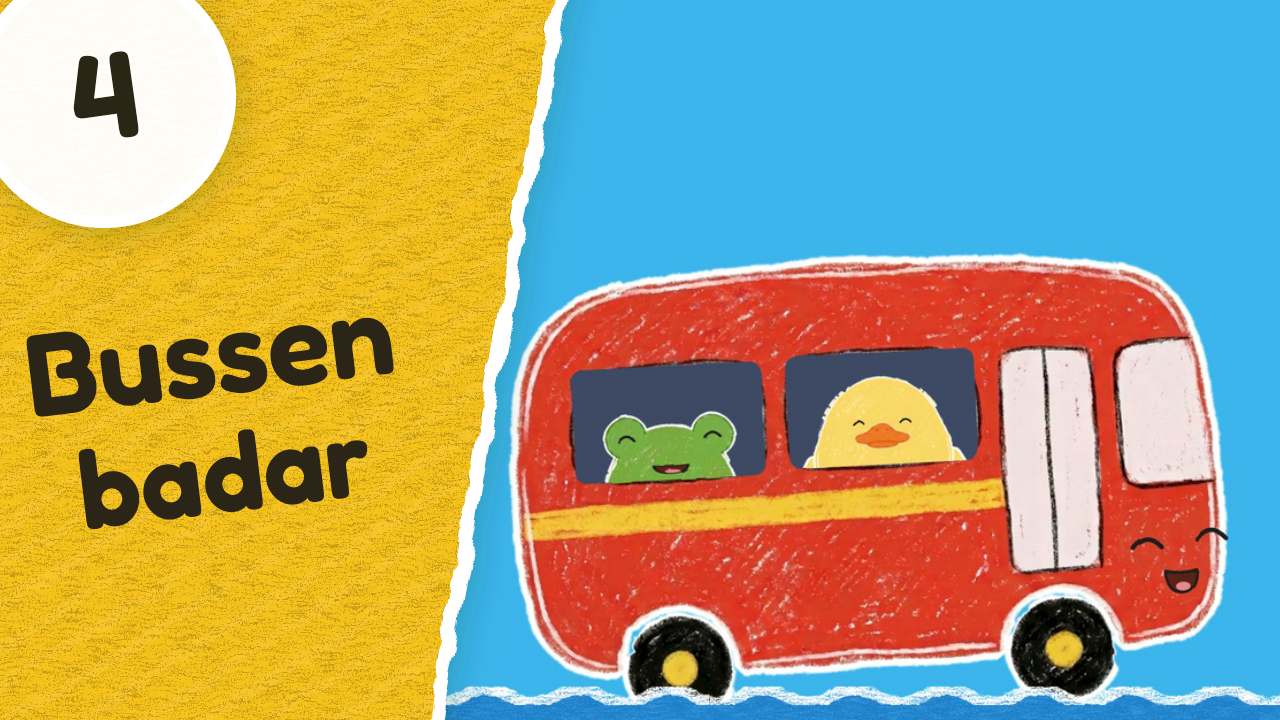
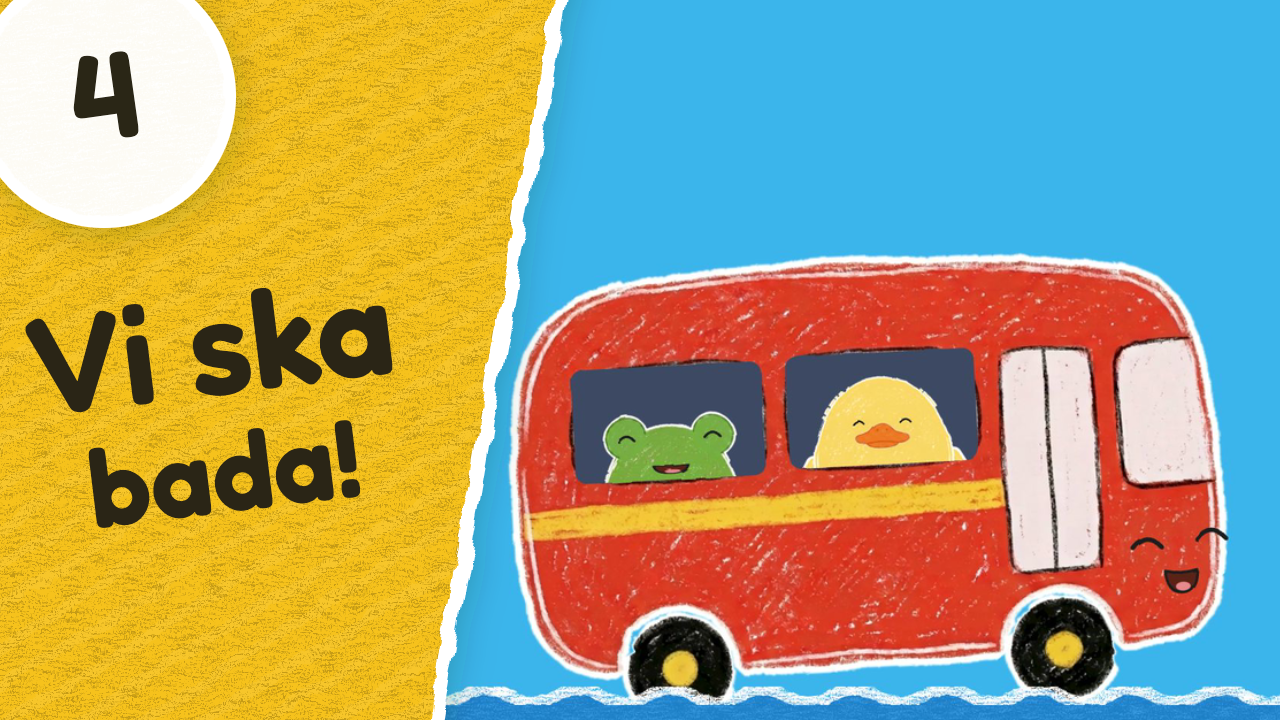
Miniatyrer: A/B-test för hand och 004:s titel som videon
B-bilder: `b: { … }` på en rad i verktyg/miniatyr.html ger en B direkt efter A (en ändring i taget),
renderas som miniatyr-strimma-b*.png. Skillen beskriver testet för hand (Test & Compare fungerar inte
för barnvideor): fyra veckor, svenska A B A B och engelska B A B A, CTR och visningstid i loggen
produktion/youtube/miniatyr-test.md. Första testet: 014-b med ansiktet närmare.
004:s svenska miniatyr säger "Vi ska bada!" som den publicerade videon.

Changed region(s): [[0.0, 0.3972, 0.3125, 0.5806], [0.0625, 0.5806, 0.3125, 0.7333]]

diff --git a/verktyg/miniatyr.html b/verktyg/miniatyr.html
@@ -42,6 +42,7 @@
 // ut: mappen bilderna sparas i (standard: hjältebildens mapp). hjalte: [skala, x, y] = hjältens nederkant mitt i bilden; den hamnar vid (870, 705) och bilden zoomas in. Utan = bilden som den är.
 const MINIATYRER = [
   { id:'014', bild:'avsnitt/014-grona-traktorn/thumbnail/miniatyr-utan-text.png', farg:'#3E9B35', cirkel:['14'], tid:'3:37',
+    b:{ hjalte:[1.3, 800, 531], test:'ansiktet närmare' },
     sv:{ titel:['Gröna','sången'], yt:'Gröna sången 🚜💚 | Färgsång för barn – leoparden letar grönt | Lilla Kritan' },
     en:{ titel:['Green','Song'], yt:'The Green Song 🚜💚 | Color Song for Kids – the leopard looks for green | Tiny Crayon TV' } },
   { id:'007', bild:'avsnitt/007-bruna-ladbilen/thumbnail/miniatyr-utan-text.png', farg:'#8B4E24', cirkel:['7'], tid:'3:12', hjalte:[1.12, 945, 650],
@@ -54,12 +55,19 @@ const MINIATYRER = [
     sv:{ titel:['Rosa','sången'], yt:'Rosa sången 🚗💗 | Barnsång om färger – musen letar rosa | lilla kritan' },
     en:{ titel:['Pink','Song'], yt:'The Pink Song 🚗💗 | Color Song for Kids – the mouse looks for pink | Tiny Crayon TV' } },
   { id:'004', bild:'avsnitt/004-bussen-badar/thumbnail/miniatyr-utan-text.png', farg:'#F6C21C', cirkel:['4'], tid:'2:41', hjalte:[1.15, 900, 640],
-    sv:{ titel:['Bussen','badar'], yt:'Bussen badar 🚌🌊 | Barnsång – nu ska vi bada! | lilla kritan' },
+    sv:{ titel:['Vi ska','bada!'], yt:'Vi ska bada! 🚌💦 | Barnsång om bussen, grodan och ankan | lilla kritan' },
     en:{ titel:["Let's Go",'Swimming!'], yt:"Let's Go Swimming! 🚌🌊 | Kids Song | Tiny Crayon TV" } },
   { id:'mix-2', ut:'produktion/youtube/mix/mix-2/thumbnail', bild:'avsnitt/005-rosa-bilen/thumbnail/miniatyr-utan-text.png', farg:'#8E44C9', cirkel:['25','min'], tid:'25:14', hjalte:[1.15, 915, 660],
     sv:{ titel:['Alla','sångerna'], yt:'Alla färgsångerna 🌈 | 25 minuter barnsånger | lilla kritan' },
     en:{ titel:['All the','Songs'], yt:'All the Color Songs 🌈 | 25 minutes of kids songs | Tiny Crayon TV' } },
 ];
+// A/B: `b: { … }` på en rad ger en B-bild direkt efter A, med bara det som står i b ändrat (en sak i taget) och `test:` = vad som prövas.
+// Den renderas som miniatyr-strimma-b.png och -b-en.png. Testet görs för hand, se skill `miniatyrer` (YouTubes Test & Compare
+// fungerar inte för barnvideor).
+for (let i = MINIATYRER.length - 1; i >= 0; i--) {
+  const a = MINIATYRER[i];
+  if (a.b) MINIATYRER.splice(i + 1, 0, { ...a, ...a.b, id: `${a.id}-b`, variant: 'b', b: undefined });
+}
 const KANAL = { sv:'lilla kritan', en:'tiny crayon tv' }, KANAL_UNDER = { sv:'Lilla Kritan · 1,2 tn visningar', en:'Tiny Crayon TV · 1.2K views' };
 const q = new URLSearchParams(location.search);
 let lang = q.has('en') ? 'en' : 'sv', medKanal = q.has('kanal');
@@ -81,7 +89,7 @@ async function rita() {
     document.body.classList.add('en-bild');
     ut.innerHTML = svgTom(MINIATYRER.find(m => m.id === q.get('id')));
   } else {
-    ut.innerHTML = `<div class="stora">${MINIATYRER.map(m => `<div><h3>${m.id}</h3>${svgTom(m)}</div>`).join('')}</div>
+    ut.innerHTML = `<div class="stora">${MINIATYRER.map(m => `<div><h3>${m.id}${m.test ? ` · B: ${m.test}` : ''}</h3>${svgTom(m)}</div>`).join('')}</div>
       <p class="lbl">Mobil, nästa video (168 px)</p><div class="rad">${MINIATYRER.map(m => kort(m, 168)).join('')}</div>
       <p class="lbl">Startsida, dator (320 px)</p><div class="rad">${MINIATYRER.slice(0, 3).map(m => kort(m, 320)).join('')}</div>`;
     document.getElementById('bar').innerHTML = [

diff --git a/.claude/skills/miniatyrer/SKILL.md b/.claude/skills/miniatyrer/SKILL.md
@@ -1,6 +1,6 @@
 ---
 name: miniatyrer
-description: YouTube-miniatyrer för Lilla Kritan och Tiny Crayon TV i husets stil, "färgstrimman" – en sned kritstrimma i avsnittets färg till vänster med titeln i Fredoka, en stor gul cirkel med avsnittsnumret (eller "25 min" i mixar) som klipps av hörnet, och en nära hjältebild med ett glatt ansikte till höger. Svensk och engelsk bild ur samma data, granskning i mobilstorlek med tidsbrickan, render till PNG under 2 MB. Use when the user says "miniatyr", "thumbnail", "miniatyrbild", "ny thumbnail", "thumbnail för avsnitt", "färgstrimman", or an episode or mix is ready for YouTube and has no thumbnail.
+description: YouTube-miniatyrer för Lilla Kritan och Tiny Crayon TV i husets stil, "färgstrimman" – en sned kritstrimma i avsnittets färg till vänster med titeln i Fredoka, en stor gul cirkel med avsnittsnumret (eller "25 min" i mixar) som klipps av hörnet, och en nära hjältebild med ett glatt ansikte till höger. Svensk och engelsk bild ur samma data, B-bilder för A/B-test för hand (Test & Compare fungerar inte för barnvideor), granskning i mobilstorlek med tidsbrickan, render till PNG under 2 MB. Use when the user says "miniatyr", "thumbnail", "miniatyrbild", "ny thumbnail", "thumbnail för avsnitt", "färgstrimman", or an episode or mix is ready for YouTube and has no thumbnail.
 ---
 
 # Miniatyrer – färgstrimman
@@ -25,7 +25,8 @@ Stilen bestämdes 2026-11-07 (skisser i tre rundor, Sanna valde): **sned strimma
 |---|---|
 | `verktyg/miniatyr.js` | Strimman, titeln och cirkeln (`miniatyr.strimma(parent, { farg, titel, cirkel, kanal })`). Mått i en 1280×720-ruta. Ljusa färger (gul, vit, ljusrosa) får mörk text och vit cirkel av sig själv. |
 | `verktyg/miniatyr.html` | Listan `MINIATYRER` (en rad per bild) och granskningen: alla stort, i mobilstorlek (168 px) och på datorns startsida, med tidsbricka och YouTube-titel. Tangenter: `e` engelska, `d` mörkt flöde, `k` kanalnamn på/av. `?id=014&en` visar en bild ensam (för render). |
-| `verktyg/miniatyr-render.mjs` | `node verktyg/miniatyr-render.mjs 014` → `miniatyr-strimma.png` och `miniatyr-strimma-en.png` (1280×720) i avsnittets `thumbnail/`. Utan id: alla. |
+| `verktyg/miniatyr-render.mjs` | `node verktyg/miniatyr-render.mjs 014` → `miniatyr-strimma.png` och `miniatyr-strimma-en.png` (1280×720) i avsnittets `thumbnail/`. `014-b` ger B-bilden. Utan id: alla. |
+| `produktion/youtube/miniatyr-test.md` | Loggen för A/B-testen. |
 | `avsnitt/NNN/thumbnail/miniatyr-utan-text.png` | Hjältebilden, 1280×720, utan text. |
 
 ## Steg för en ny miniatyr
@@ -54,11 +55,24 @@ Stilen bestämdes 2026-11-07 (skisser i tre rundor, Sanna valde): **sned strimma
 - **Inga kända serier, figurer eller varumärken** (CLAUDE.md).
 - Rör inte en publicerad miniatyr (`miniatyr.png`). Strimman sparas bredvid som `miniatyr-strimma*.png`, och Sanna byter själv i YouTube Studio.
 
-## Testa vad som fungerar
+## A/B-test
 
-YouTubes **Test & Compare fungerar inte för videor gjorda för barn**, så A/B-test i Studio går inte. Gör så här i stället:
-byt en sak i taget på en äldre video, vänta två veckor och jämför klickfrekvens (CTR) och visningar från "Bläddra" och "Föreslagna videor" före och efter i Studio.
-Det är en svag signal (inget kontrollerat test), så skriv ner varje byte med datum, vad som ändrades och siffrorna före och efter.
+YouTubes **Test & Compare fungerar inte för videor gjorda för barn** (hjälpsidan: *"You cannot use this feature on videos that are made for kids"*, kollat 2026-11-07).
+Därför testar vi för hand, med en växling vecka för vecka. Det är svagare än ett riktigt A/B-test, så följ upplägget noga.
+
+**Göra B-bilden.** Lägg `b: { …, test: 'vad som prövas' }` på raden i `MINIATYRER`. B blir en kopia av A med bara det som står i `b` ändrat:
+**en sak i taget** (hjältens utsnitt eller pose, titelns ord, cirkeln med eller utan, färgen). Granskningssidan visar B direkt efter A.
+`node verktyg/miniatyr-render.mjs 014-b` ger `miniatyr-strimma-b.png` och `-b-en.png`. Exempel: 014-b, ansiktet närmare (`hjalte: [1.3, 800, 531]`).
+
+**Köra testet** (en video som är minst två veckor gammal, så att premiärtoppen är över):
+1. Fyra veckor, byt bild samma veckodag varje gång. **Svenska kanalen A, B, A, B. Engelska kanalen B, A, B, A** (omvänd ordning tar bort veckans slump: lov, helger, algoritmen).
+2. Efter varje vecka: Studio → videon → Analys → Räckvidd, välj veckan, skriv in **visningar av miniatyren (impressions)**, **klickfrekvens (CTR)** och **genomsnittlig visningstid** i loggen.
+3. Mindre än ca 1 000 visningar av miniatyren per vecka: förläng med två veckor till (A, B) innan du drar slutsatser.
+4. **B vinner** bara om B:s CTR är högre i alla B-veckor än i veckorna bredvid, och minst ca 15 % högre totalt, utan att visningstiden sjunker.
+   Annars **behåll A** (husstilen). Lika = A.
+5. En vinst som gäller stilen (t.ex. närmare ansikten) förs in under Regler ovan, med datum och testets rad i loggen.
+
+**Loggen:** `produktion/youtube/miniatyr-test.md`, en rad per vecka och kanal, och en slutsats per test.
 
 ## Varför stilen ser ut så här
 

diff --git a/produktion/youtube/miniatyr-test.md b/produktion/youtube/miniatyr-test.md
@@ -1,0 +1,22 @@
+# Miniatyrer – A/B-test
+
+Testas för hand, vecka för vecka (Test & Compare fungerar inte för barnvideor). Upplägget står i skill `miniatyrer`, avsnittet A/B-test:
+fyra veckor, byt samma veckodag, svenska kanalen A B A B och engelska B A B A. Siffrorna ur Studio → Analys → Räckvidd för just den veckan.
+
+## 014 Gröna sången – ansiktet närmare
+
+A: `miniatyr-strimma.png` (Lova i traktorn, hela hytten). B: `miniatyr-strimma-b.png` (inzoomat, ansiktet ca dubbelt så stort).
+Start: när 014 har legat uppe i två veckor.
+
+| Vecka (mån–sön) | Kanal | Bild | Visningar av miniatyren | CTR | Genomsn. visningstid |
+|---|---|---|---|---|---|
+| | Lilla Kritan | A | | | |
+| | Tiny Crayon TV | B | | | |
+| | Lilla Kritan | B | | | |
+| | Tiny Crayon TV | A | | | |
+| | Lilla Kritan | A | | | |
+| | Tiny Crayon TV | B | | | |
+| | Lilla Kritan | B | | | |
+| | Tiny Crayon TV | A | | | |
+
+**Slutsats:** (B vinner bara om B:s CTR är högre i alla B-veckor och minst ca 15 % högre totalt, utan lägre visningstid. Annars A.)
